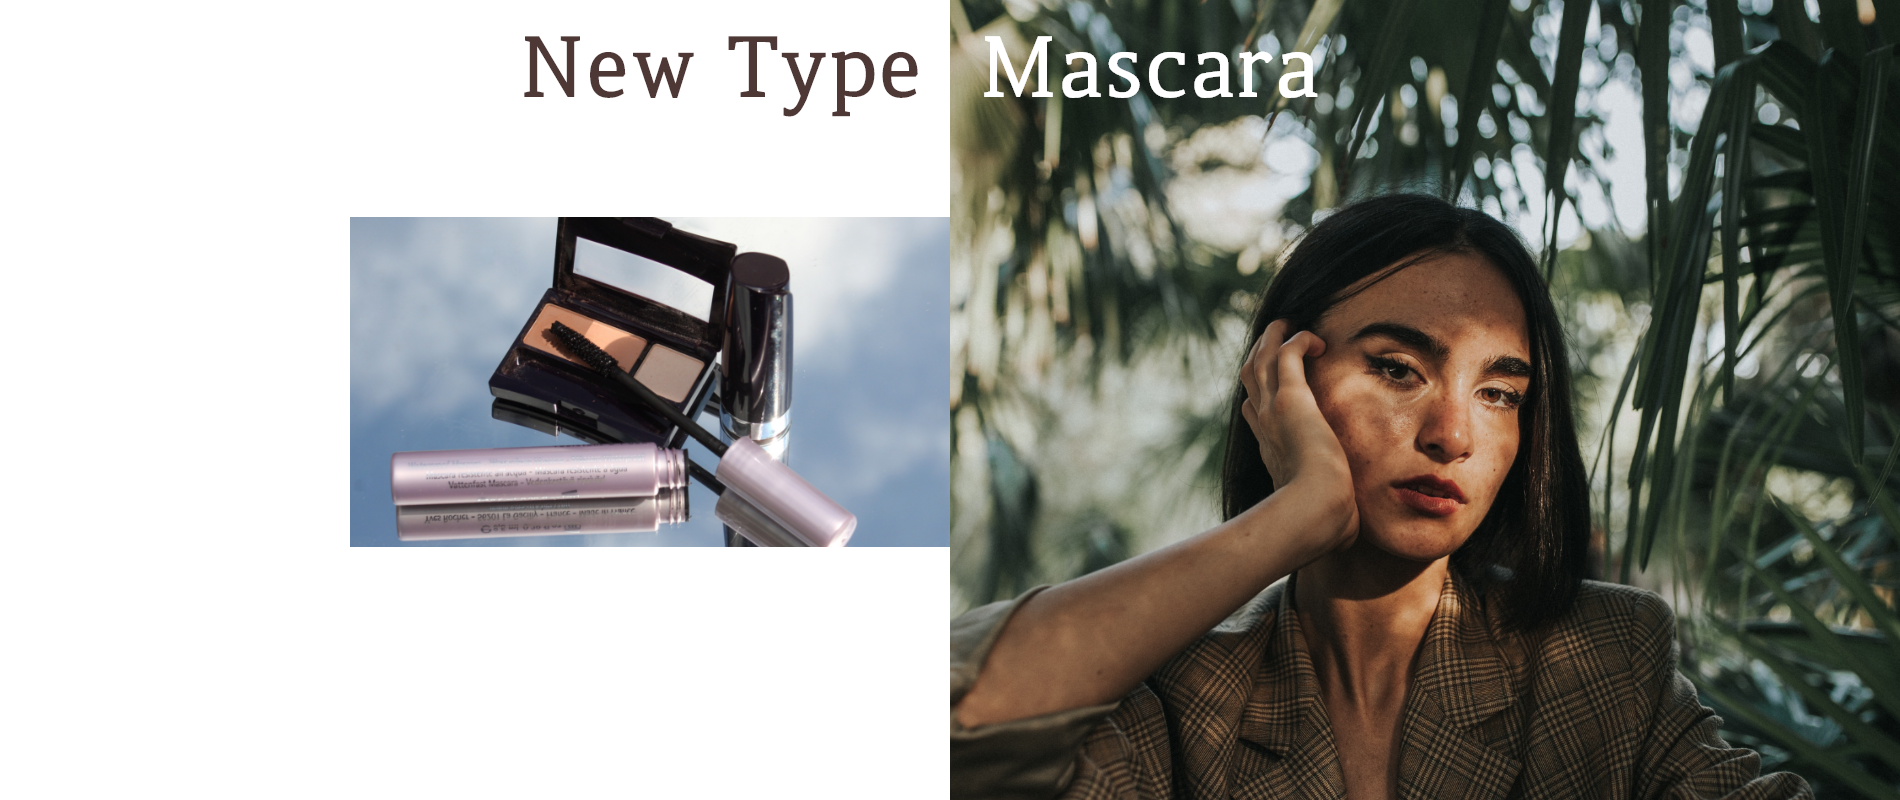
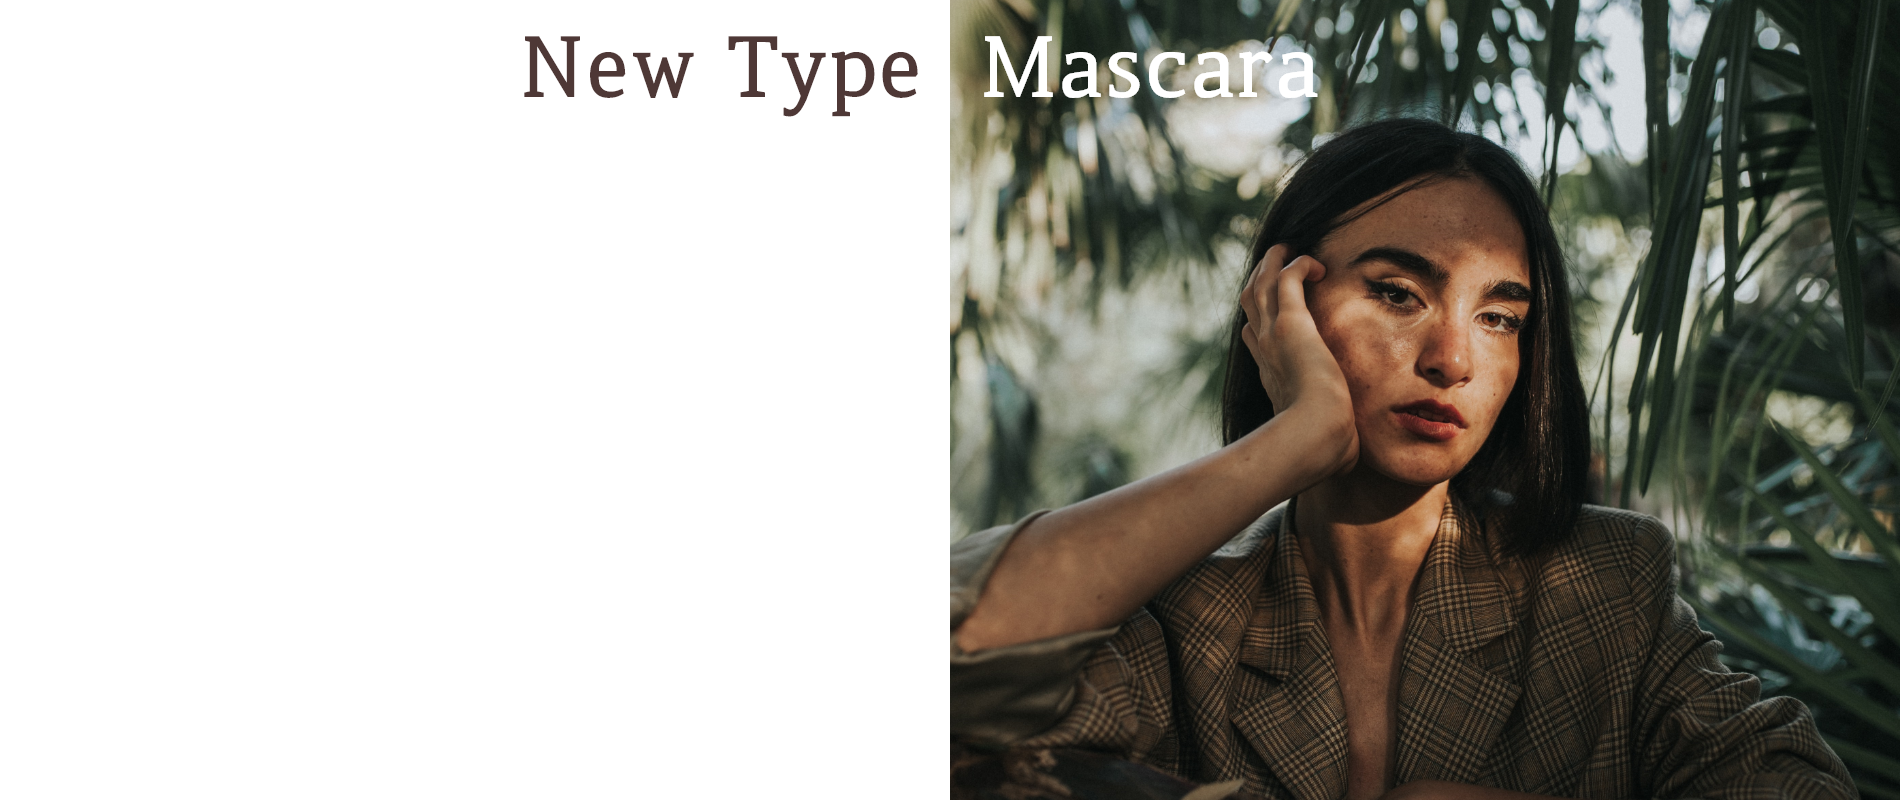
123

diff --git a/Lesis/css/main.css b/Lesis/css/main.css
@@ -294,6 +294,23 @@ a {
   bottom: 60px;
 }
 
+.art2 .imgbox {
+  position: absolute;
+  left: 350px;
+  top: 217px;
+  overflow: hidden;
+}
+
+.art2 .imgbox .obj {
+  transition: .3s;
+}
+
+
+.art2:hover .imgbox .obj {
+  transform: scale(1.05);
+}
+
+
 /* art2 끝 */
 
 .divide2 {
@@ -310,11 +327,35 @@ a {
   background-image: url(../images/art3_image.png);
 }
 
+.art3:hover .ast1 {
+  opacity: 1;
+  transition-duration: 1s , 1s;
+}
+.art3:hover .ast2 {
+  opacity: 1;
+  transition-duration: 2s , 1s;
+  
+}
+
+.art3:hover .ast3 {
+  opacity: 1;
+  transition-duration: 3s , 1s;
+}
+
+.art3:hover .ast4 {
+  opacity: 1;
+  transition-duration: 4s , 1s;
+}
+
+
+
+
 .art3 .ast1 {
   position: absolute;
   left: 388px;
   bottom: 489px;
   z-index: 1;
+  opacity: .3;
 }
 
 .art3 .ast2 {
@@ -322,6 +363,8 @@ a {
   left: 686px;
   bottom: 419px;
   z-index: 1;
+  opacity: .3;
+
 }
 
 .art3 .ast3 {
@@ -329,6 +372,8 @@ a {
   right: 684px;
   bottom: 359px;
   z-index: 1;
+  opacity: .3;
+
 }
 
 .art3 .ast4 {
@@ -336,6 +381,8 @@ a {
   right: 402px;
   bottom: 299px;
   z-index: 1;
+  opacity: .3;
+
 }
 
 .art3 .text_g3 {

diff --git a/Lesis/index.html b/Lesis/index.html
@@ -26,7 +26,7 @@
       </div>
       <div class="nav_right">
         <ul>
-          <li><a href="">Best</a></li>
+          <li><a href="./sub/index.html">Best</a></li>
           <li><a href="">My</a></li>
         </ul>
       </div>
@@ -83,9 +83,11 @@
 
 
   <div class="art2 wrap">
-
     <img src="./images/art2_image.png" alt="">
 
+    <div class="imgbox">
+      <img class="obj" src="./images/art2_obj.png" alt="">
+    </div>
     <div class="text_g1">
       <ul>
         <li>새롭게 선보이는 타입의 파운데이션</li>

diff --git a/Lesis/sub/index.html b/Lesis/sub/index.html
@@ -31,7 +31,7 @@
         </ul>
       </div>
     </nav>
-    <a href="">
+    <a href="../index.html">
       <img src="./images/logo.png" alt="" class="logo"></a>
 
   </div>

diff --git a/Lesis/sub/css/main.css b/Lesis/sub/css/main.css
@@ -128,6 +128,12 @@
   color: white;
 }
 
+.main .nav_right li:first-child  {
+  color: white;
+  text-decoration: underline;
+
+}
+
 .main,
 .title,
 .art1,
